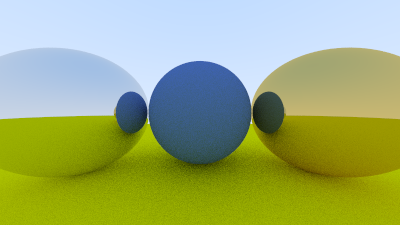
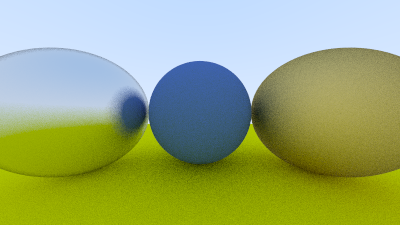
add fuzz to metal material

diff --git a/src/material.rs b/src/material.rs
@@ -34,19 +34,28 @@ impl Material for Lambertian {
 
 pub struct Metal {
     albedo: Color,
+    fuzz: f64,
 }
 
 impl Metal {
-    pub const fn new(albedo: Color) -> Self {
-        Self { albedo }
+    pub fn new(albedo: Color, fuzz: f64) -> Self {
+        Self {
+            albedo,
+            fuzz: fuzz.min(1.0),
+        }
     }
 }
 
 impl Material for Metal {
     fn scatter(&self, ray: &Ray, hit_record: &HitRecord) -> Option<(&Color, Ray)> {
         let reflected = ray.direction().reflect(hit_record.normal());
+        let reflected = reflected.unit() + (self.fuzz * Vec3::random_unit_vector());
         let scattered = Ray::new(hit_record.p().clone(), reflected);
         let attenuation = &self.albedo;
-        Some((attenuation, scattered))
+        if scattered.direction().dot(hit_record.normal()) > 0. {
+            Some((attenuation, scattered))
+        } else {
+            None
+        }
     }
 }

diff --git a/src/main.rs b/src/main.rs
@@ -26,8 +26,8 @@ fn main() {
     // Materials
     let material_ground = Rc::new(Lambertian::new(Color::new(0.8, 0.8, 0.0)));
     let material_center = Rc::new(Lambertian::new(Color::new(0.1, 0.2, 0.5)));
-    let material_left = Rc::new(Metal::new(Color::new(0.8, 0.8, 0.8)));
-    let material_right = Rc::new(Metal::new(Color::new(0.8, 0.6, 0.2)));
+    let material_left = Rc::new(Metal::new(Color::new(0.8, 0.8, 0.8), 0.3));
+    let material_right = Rc::new(Metal::new(Color::new(0.8, 0.6, 0.2), 1.0));
 
     // World
     let mut world = HittableList::default();
